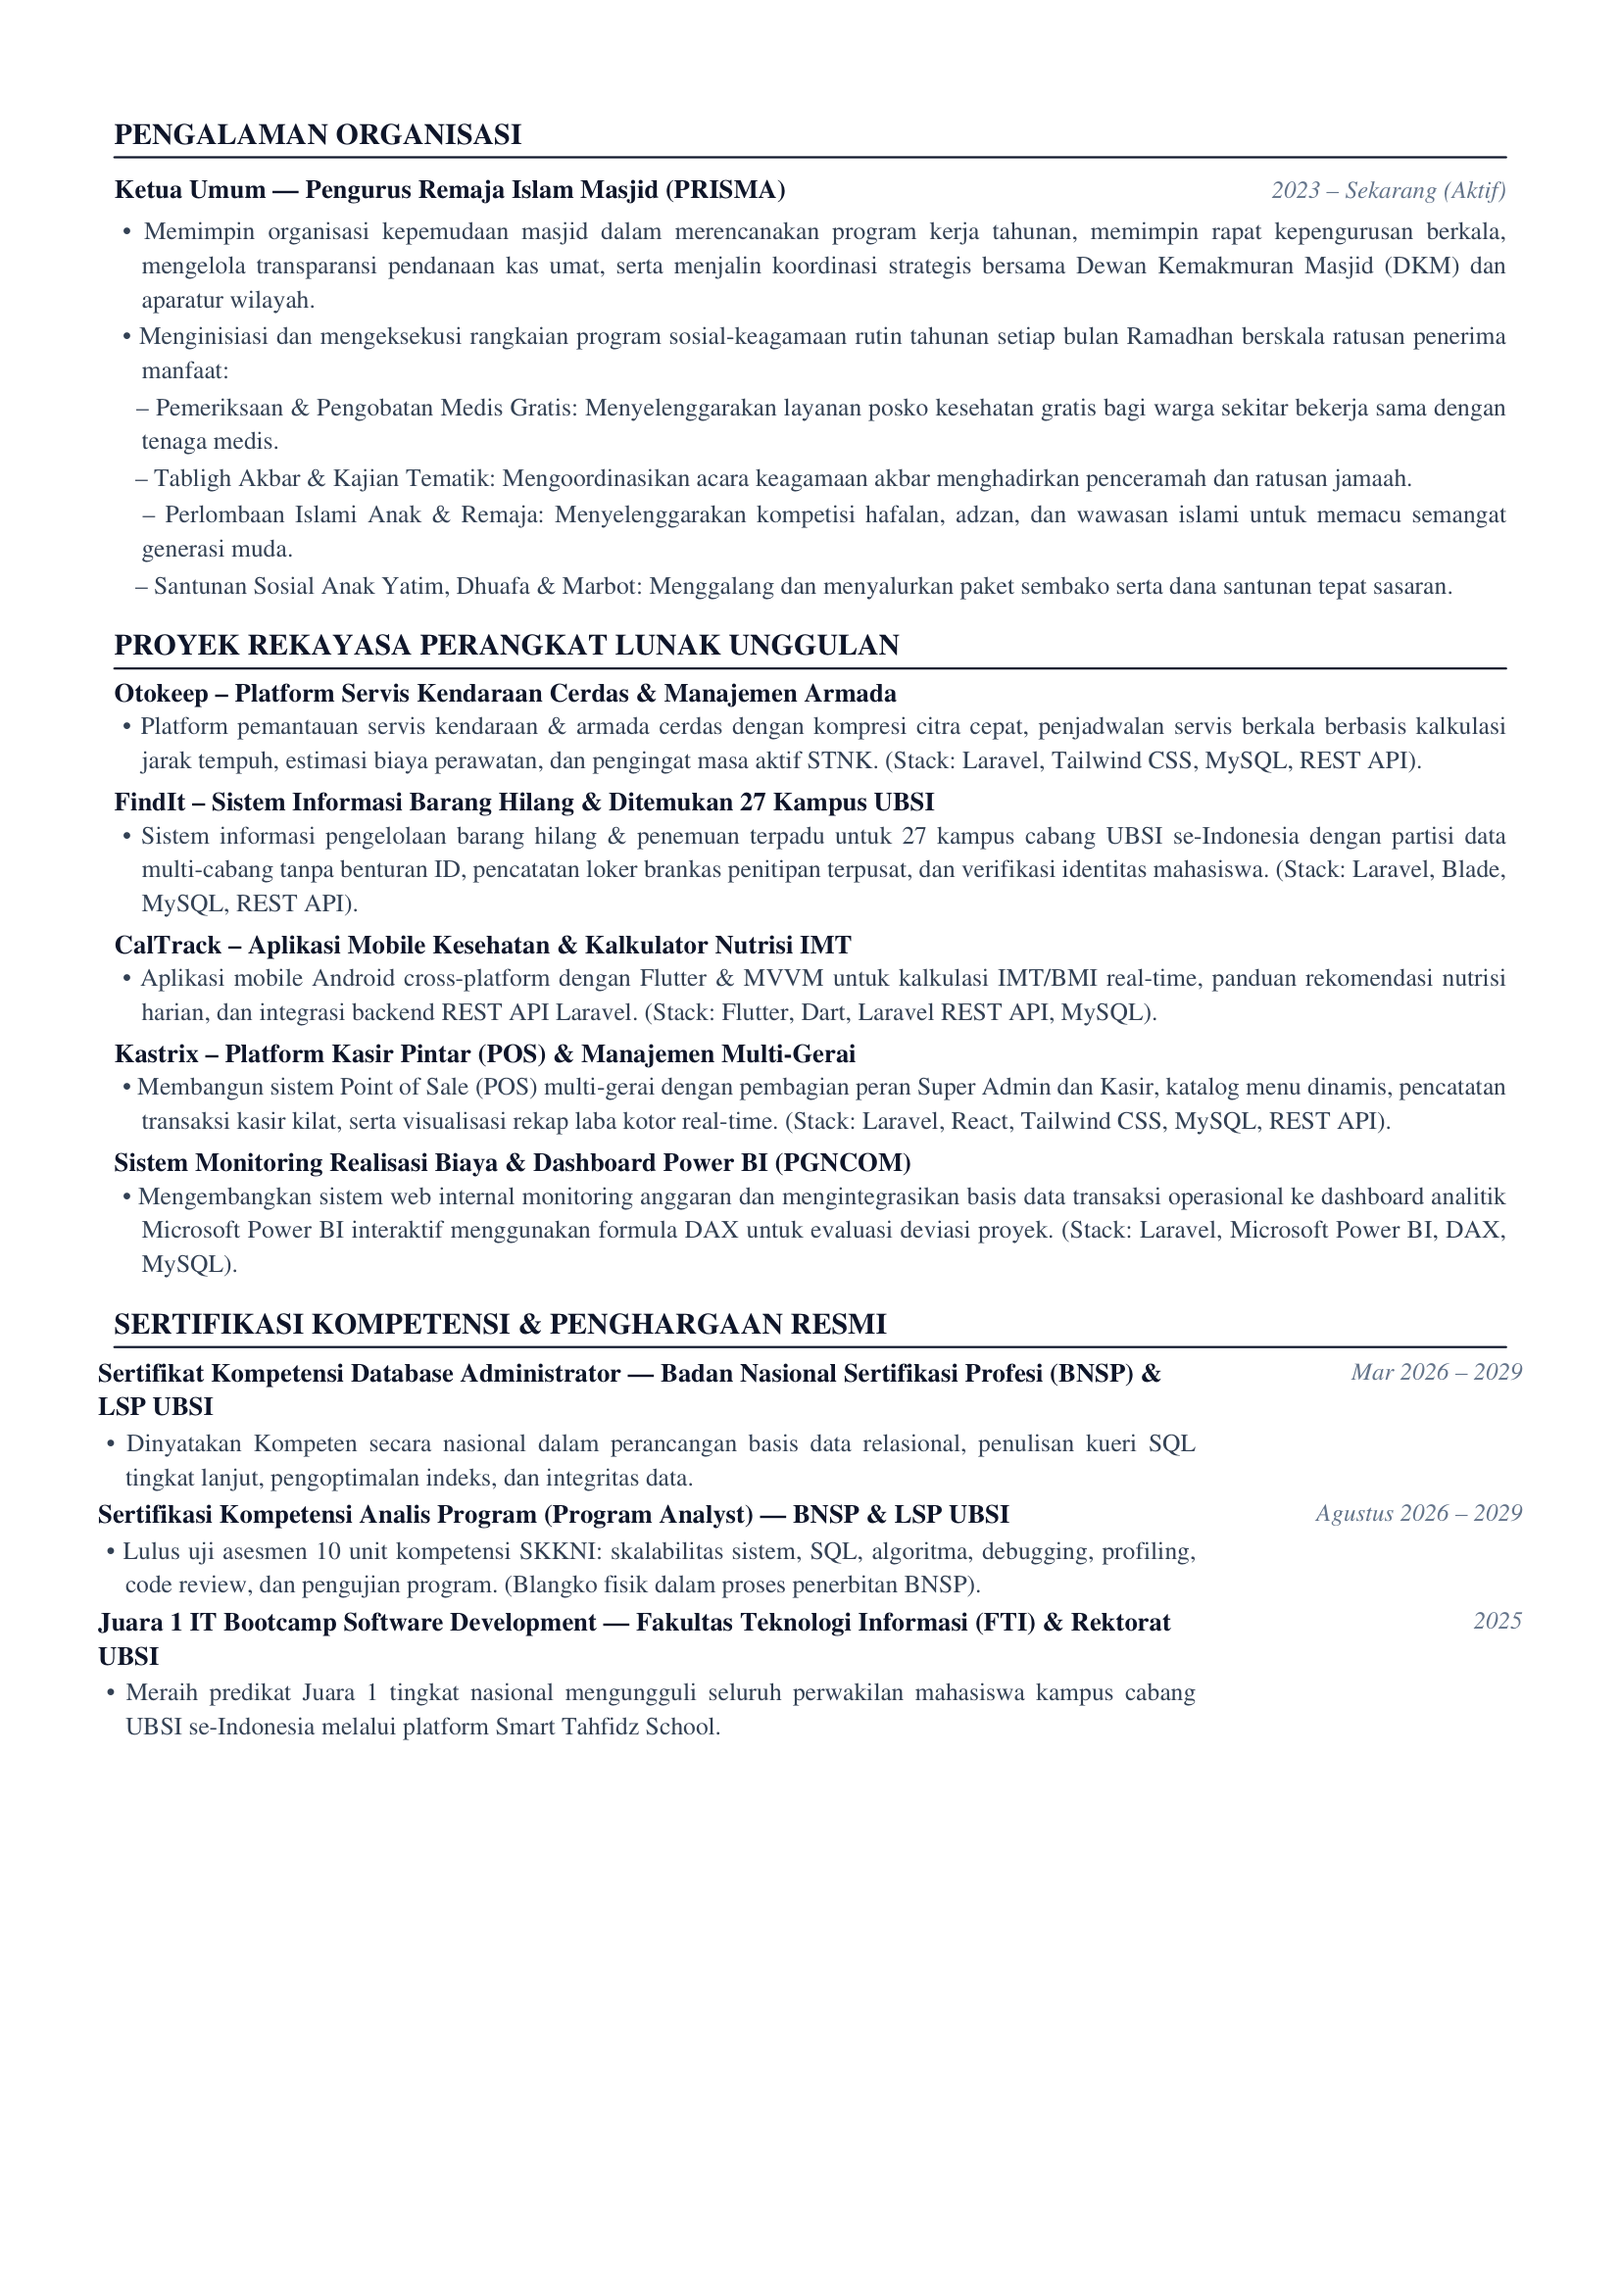
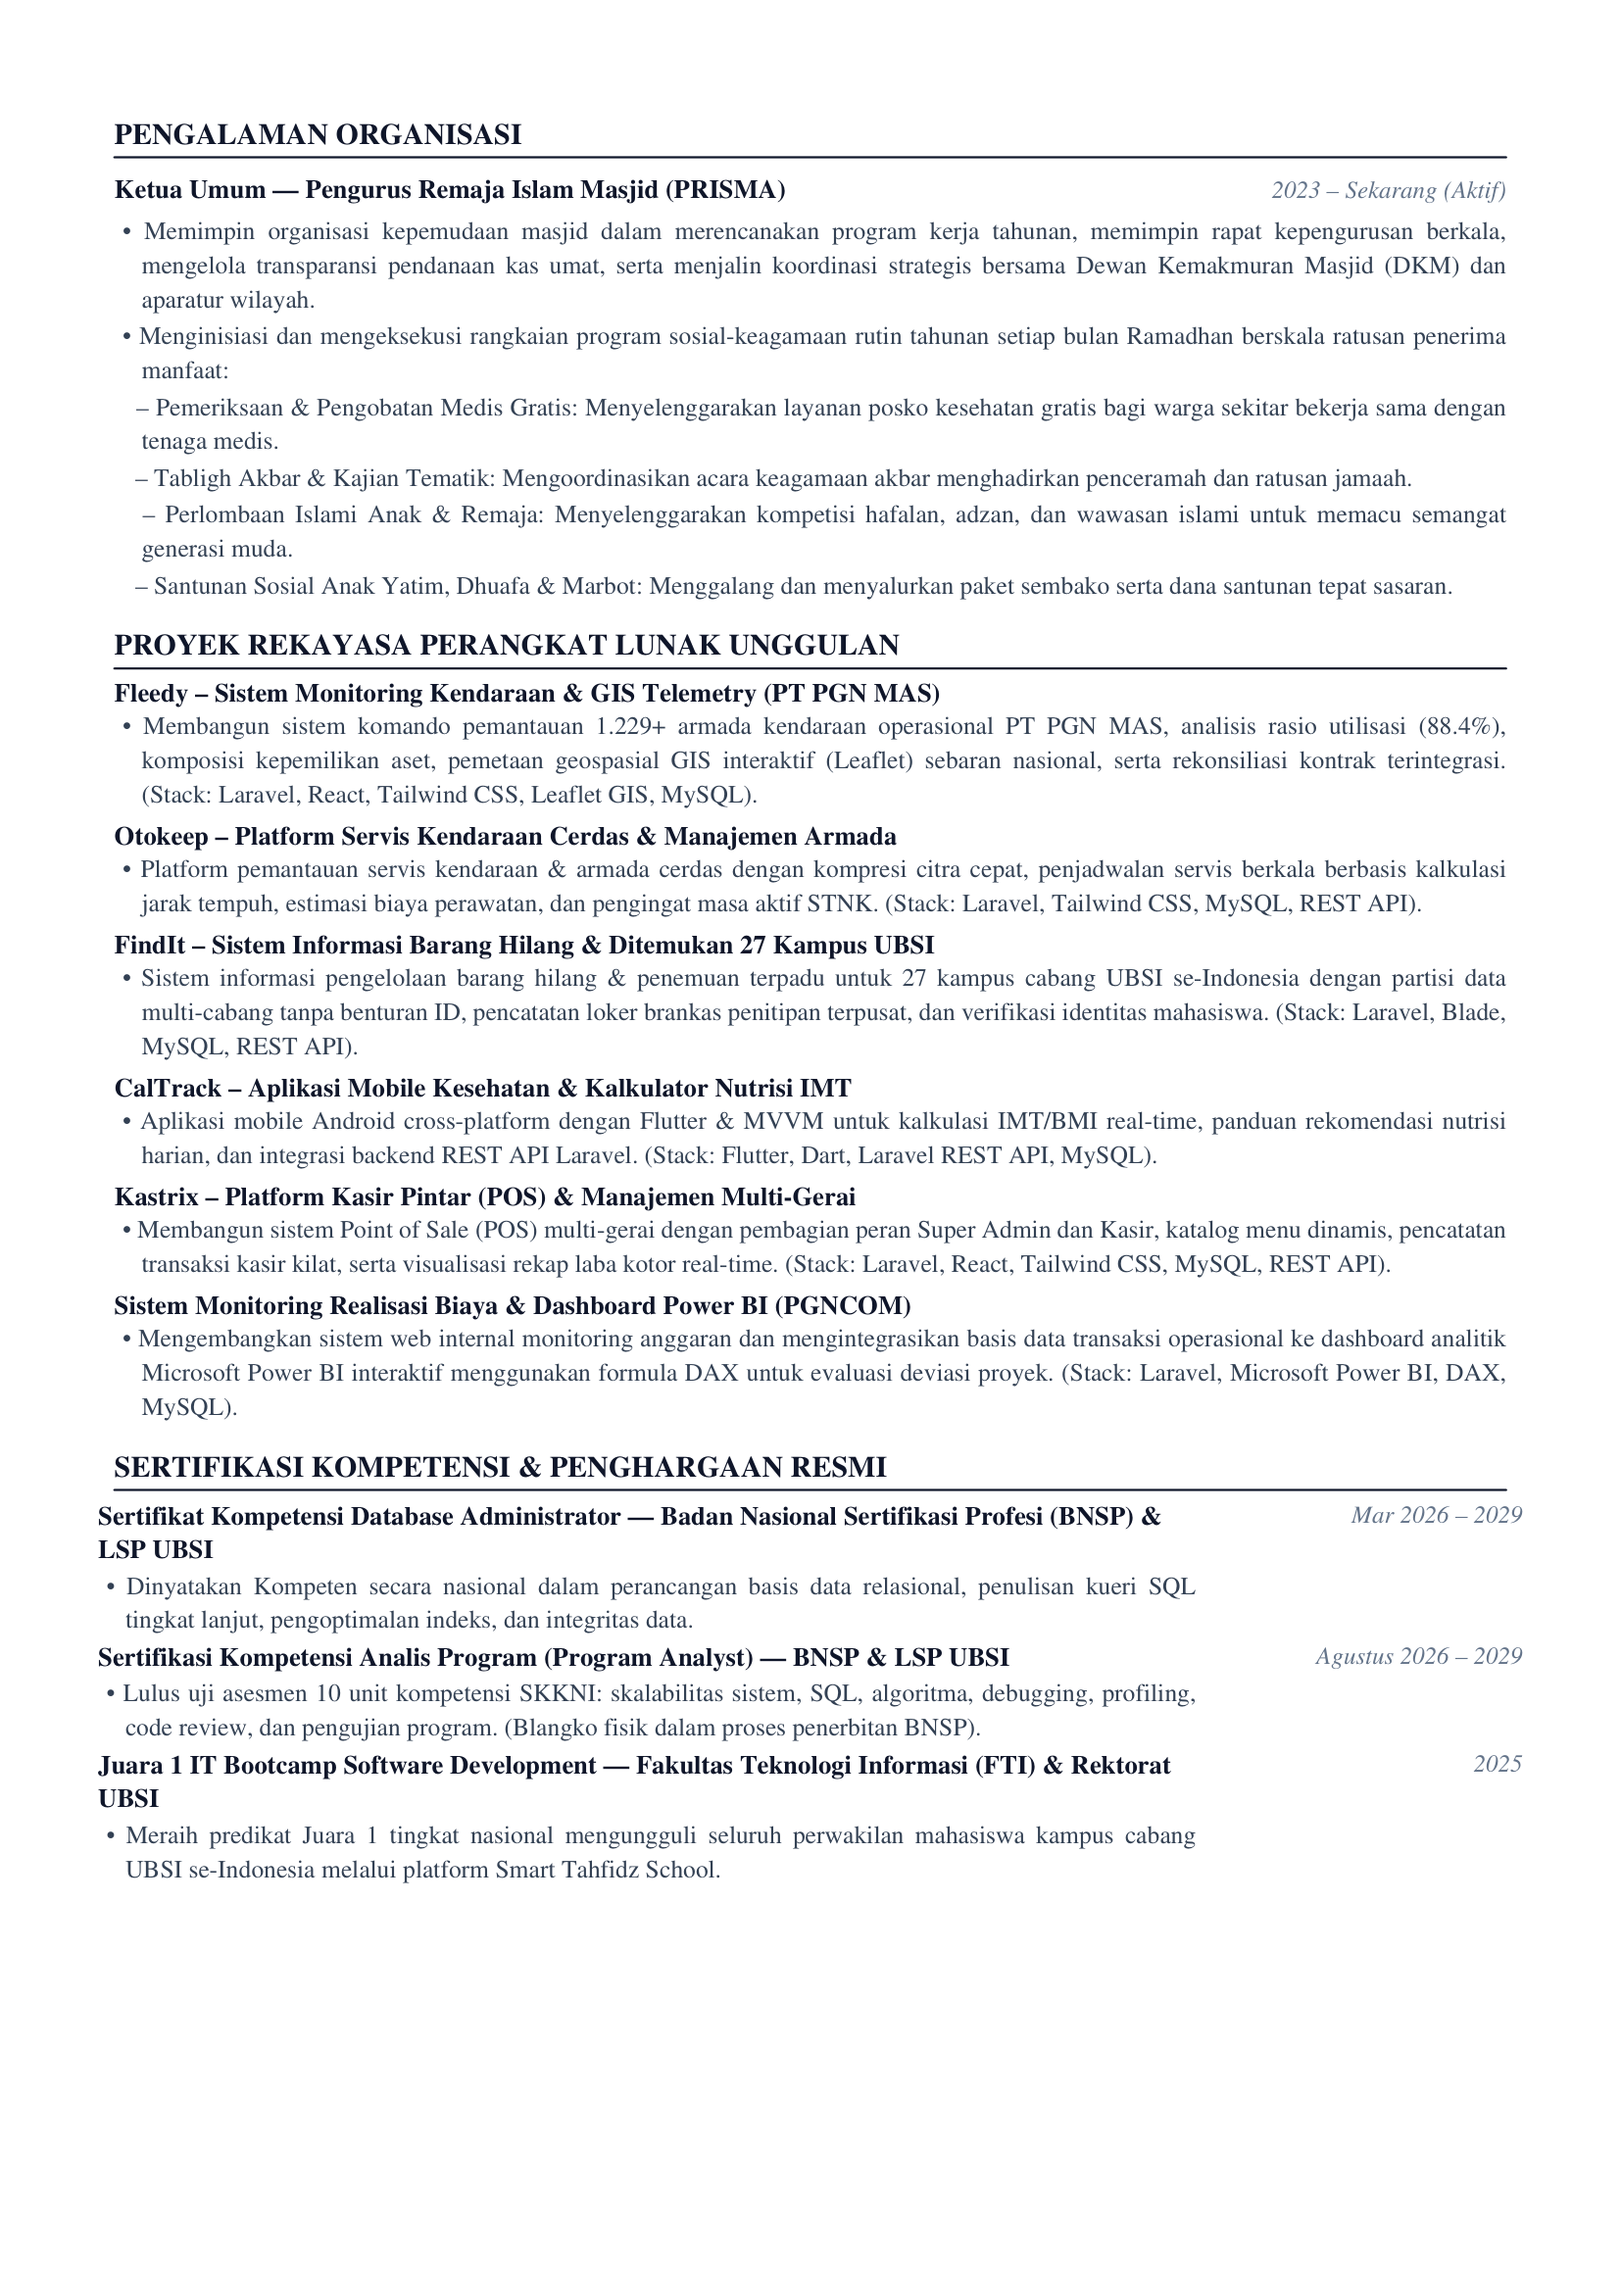
feat(cv): add Fleedy to ATS CV without public demo or repo links, remove demo and repo from web project card

Changed region(s): [[0.0617, 0.2809, 0.925, 0.8115], [0.8634, 0.6554, 0.8942, 0.6866]]

diff --git a/src/lib/data.ts b/src/lib/data.ts
@@ -190,8 +190,8 @@ export const defaultProjects: Project[] = [
     tags: ['Laravel 10', 'React 18', 'Tailwind CSS', 'Leaflet GIS', 'MySQL', 'PhpSpreadsheet', 'REST API'],
     category: 'web',
     technical_highlight: 'Arsitektur geospasial GIS Leaflet dengan dynamic clustering, inline cell editing data kontrak langsung ke database, audit rekonsiliasi anomali unit, serta engine ekspor/impor Excel multi-sheet.',
-    demo_url: 'https://monitoringkendaraan-delta.vercel.app',
-    github_url: 'https://github.com/Dimss-W/monitoring_kendaraan',
+    demo_url: '',
+    github_url: '',
     image_url: '/projects/fleedy-dashboard.png',
     images: [
       '/projects/fleedy-dashboard.png',

diff --git a/generate_1page_cv.py b/generate_1page_cv.py
@@ -296,6 +296,11 @@ def build_ats_cv(output_path):
     for elem in section_heading("Proyek Rekayasa Perangkat Lunak Unggulan"):
         story.append(elem)
 
+    # Fleedy PGNMAS
+    story.append(Paragraph("<b>Fleedy – Sistem Monitoring Kendaraan & GIS Telemetry (PT PGN MAS)</b>", item_title_style))
+    story.append(Paragraph("• Membangun sistem komando pemantauan 1.229+ armada kendaraan operasional PT PGN MAS, analisis rasio utilisasi (88.4%), komposisi kepemilikan aset, pemetaan geospasial GIS interaktif (Leaflet) sebaran nasional, serta rekonsiliasi kontrak terintegrasi. (Stack: Laravel, React, Tailwind CSS, Leaflet GIS, MySQL).", bullet_style))
+    story.append(Spacer(1, 1.5))
+
     # Otokeep
     story.append(Paragraph("<b>Otokeep – Platform Servis Kendaraan Cerdas & Manajemen Armada</b>", item_title_style))
     story.append(Paragraph("• Platform pemantauan servis kendaraan & armada cerdas dengan kompresi citra cepat, penjadwalan servis berkala berbasis kalkulasi jarak tempuh, estimasi biaya perawatan, dan pengingat masa aktif STNK. (Stack: Laravel, Tailwind CSS, MySQL, REST API).", bullet_style))

diff --git a/generate_ats_cv.py b/generate_ats_cv.py
@@ -297,6 +297,11 @@ def build_ats_cv(output_path):
     for elem in section_heading("Proyek Rekayasa Perangkat Lunak Unggulan"):
         story.append(elem)
 
+    # Fleedy PGNMAS
+    story.append(Paragraph("<b>Fleedy – Sistem Monitoring Kendaraan & GIS Telemetry (PT PGN MAS)</b>", item_title_style))
+    story.append(Paragraph("• Membangun sistem komando pemantauan 1.229+ armada kendaraan operasional PT PGN MAS, analisis rasio utilisasi (88.4%), komposisi kepemilikan aset, pemetaan geospasial GIS interaktif (Leaflet) sebaran nasional, serta rekonsiliasi kontrak terintegrasi. (Stack: Laravel, React, Tailwind CSS, Leaflet GIS, MySQL).", bullet_style))
+    story.append(Spacer(1, 1.5))
+
     # Otokeep
     story.append(Paragraph("<b>Otokeep – Platform Servis Kendaraan Cerdas & Manajemen Armada</b>", item_title_style))
     story.append(Paragraph("• Platform pemantauan servis kendaraan & armada cerdas dengan kompresi citra cepat, penjadwalan servis berkala berbasis kalkulasi jarak tempuh, estimasi biaya perawatan, dan pengingat masa aktif STNK. (Stack: Laravel, Tailwind CSS, MySQL, REST API).", bullet_style))

diff --git a/generate_docx_cv.py b/generate_docx_cv.py
@@ -462,6 +462,8 @@ def build_docx_cv(dest_paths):
     add_section_heading("Proyek Rekayasa Perangkat Lunak Unggulan")
 
     projects = [
+        ("Fleedy – Sistem Monitoring Kendaraan & GIS Telemetry (PT PGN MAS)",
+         "• Membangun sistem komando pemantauan 1.229+ armada kendaraan operasional PT PGN MAS, analisis rasio utilisasi (88.4%), komposisi kepemilikan aset, pemetaan geospasial GIS interaktif (Leaflet) sebaran nasional, serta rekonsiliasi kontrak terintegrasi. (Stack: Laravel, React, Tailwind CSS, Leaflet GIS, MySQL)."),
         ("Otokeep – Platform Servis Kendaraan Cerdas & Manajemen Armada",
          "• Platform pemantauan servis kendaraan & armada cerdas dengan kompresi citra cepat, penjadwalan servis berkala berbasis kalkulasi jarak tempuh, estimasi biaya perawatan, dan pengingat masa aktif STNK. (Stack: Laravel, Tailwind CSS, MySQL, REST API)."),
         ("FindIt – Sistem Informasi Barang Hilang & Ditemukan 27 Kampus UBSI",
